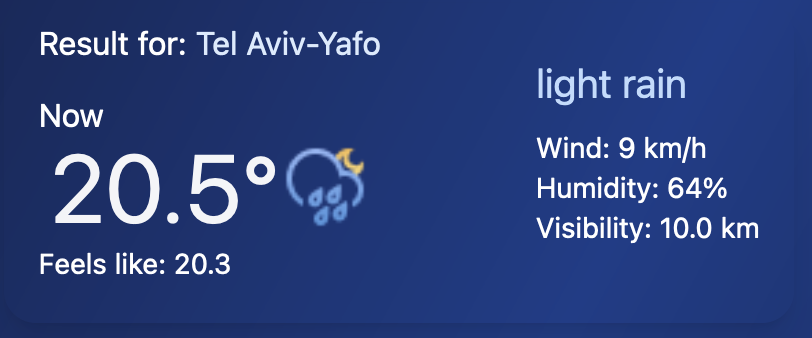
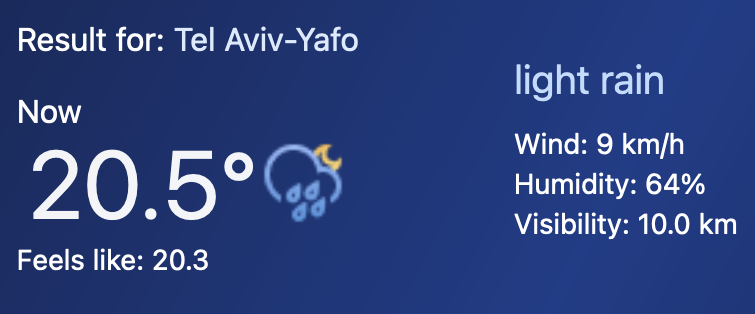
Media query breaking point 1024

diff --git a/src/data/projectsData.js b/src/data/projectsData.js
@@ -5,13 +5,6 @@ const projectsData = [
     name:'Weather App',
     img:'weather_img.png',
     info:' My Weather App is a sleek and user-friendly tool designed to provide accurate, real-time weather updates for any city in the world. Built using React and styled with Tailwind CSS, the app integrates with the OpenWeatherMap API to fetch detailed weather data, including temperature, humidity, wind speed, and a 5-day forecast.'
-  },
-  { 
-    id:1,
-    link:'https://curious-shortbread-fcc9f0.netlify.app/',
-    name:'Weather App',
-    img:'weather_img.png',
-    info:' My Weather App is a sleek and user-friendly tool designed to provide accurate, real-time weather updates for any city in the world. Built using React and styled with Tailwind CSS, the app integrates with the OpenWeatherMap API to fetch detailed weather data, including temperature, humidity, wind speed, and a 5-day forecast.'
   }
 ]
 

diff --git a/src/App.jsx b/src/App.jsx
@@ -6,7 +6,7 @@ import Footer from './components/Footer';
 function App() {
   return (
     <div className=' bg-gray-900'> 
-      <div className="font-light text-gray-300 flex flex-col gap-16 justify-center font-poppins p-3.5 pt-14 pb-14">
+      <div className="font-light text-gray-300 flex flex-col gap-16 font-poppins p-3.5 pt-14 pb-14 mx-auto max-w-screen-lg">
         <Hero />
         <About />
         <Projects />
